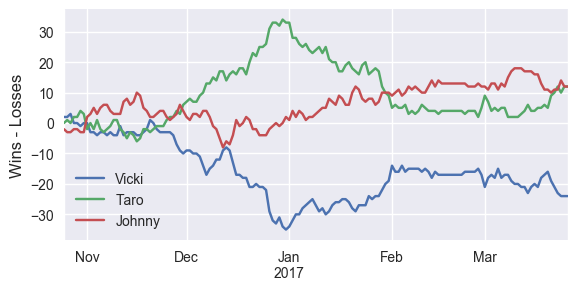
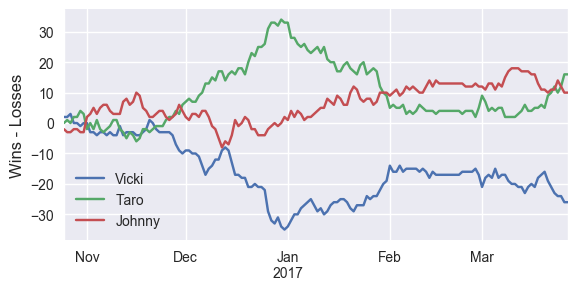
update 3/27

diff --git a/index.html b/index.html
@@ -35,32 +35,32 @@
 <a id="the-bet-is-on" class="anchor" href="#the-bet-is-on" aria-hidden="true"><span aria-hidden="true" class="octicon octicon-link"></span></a>The bet is on.</h1>
 
 <h1>
-<a id="current-winner-of-2016-17-season" class="anchor" href="#current-winner-of-2016-17-season" aria-hidden="true"><span aria-hidden="true" class="octicon octicon-link"></span></a>Current winner of 2016-17 Season (as of 3/26/2017):</h1>
+<a id="current-winner-of-2016-17-season" class="anchor" href="#current-winner-of-2016-17-season" aria-hidden="true"><span aria-hidden="true" class="octicon octicon-link"></span></a>Current winner of 2016-17 Season (as of 3/27/2017):</h1>
 
 <h2>
-<a id="none" class="anchor" href="#none" aria-hidden="true"><span aria-hidden="true" class="octicon octicon-link"></span></a><strong>Johnny</strong>
+<a id="none" class="anchor" href="#none" aria-hidden="true"><span aria-hidden="true" class="octicon octicon-link"></span></a><strong>Taro</strong>
 </h2>
 
 <h2>
 <a id="johnny" class="anchor" href="Johnny.html" aria-hidden="true"><span aria-hidden="true" class="octicon octicon-link"></span>Johnny</a></h2>
 
-<p>Wins: 368<br>
-Losses: 356<br>
-Remaining wins available: 83</p>
+<p>Wins: 370<br>
+Losses: 360<br>
+Remaining wins available: 77</p>
 
 <h2>
 <a id="taro" class="anchor" href="Taro.html" aria-hidden="true"><span aria-hidden="true" class="octicon octicon-link"></span>Taro</a></h2>
 
-<p>Wins: 367<br>
-Losses: 355<br>
-Remaining wins available: 89</p>
+<p>Wins: 372<br>
+Losses: 356<br>
+Remaining wins available: 84</p>
 
 <h2>
 <a id="vicki" class="anchor" href="Vicki.html" aria-hidden="true"><span aria-hidden="true" class="octicon octicon-link"></span>Vicki</a></h2>
 
-<p>Wins: 350<br>
-Losses: 374<br>
-Remaining wins available: 81</p>
+<p>Wins: 353<br>
+Losses: 379<br>
+Remaining wins available: 74</p>
 
 <img src='pythoncode/win_percent.png' alt='Winning Percentage Over Time'>
 <h1>

diff --git a/Vicki.html b/Vicki.html
@@ -35,9 +35,9 @@
 
 <h2>Vicki</h2>
 
-<p>Wins: 350<br>
-Losses: 374<br>
-Remaining wins available: 81</p>
+<p>Wins: 353<br>
+Losses: 379<br>
+Remaining wins available: 74</p>
 
 <h2> Current teams </h2>
 <table border="1">
@@ -50,8 +50,8 @@ Remaining wins available: 81</p>
 <tr>
 <td>Heat</td>
 <td>35</td>
-<td>37</td>
-<td>10</td>
+<td>38</td>
+<td>9</td>
 </tr>
 <tr>
 <td>Mavericks</td>
@@ -61,9 +61,9 @@ Remaining wins available: 81</p>
 </tr>
 <tr>
 <td>Trail Blazers</td>
-<td>34</td>
+<td>35</td>
 <td>38</td>
-<td>10</td>
+<td>9</td>
 </tr>
 <tr>
 <td>Cavaliers</td>
@@ -73,39 +73,39 @@ Remaining wins available: 81</p>
 </tr>
 <tr>
 <td>Bulls</td>
-<td>34</td>
+<td>35</td>
 <td>39</td>
-<td>9</td>
+<td>8</td>
 </tr>
 <tr>
 <td>76ers</td>
 <td>27</td>
-<td>45</td>
-<td>10</td>
+<td>46</td>
+<td>9</td>
 </tr>
 <tr>
 <td>Grizzlies</td>
 <td>40</td>
-<td>32</td>
-<td>10</td>
+<td>33</td>
+<td>9</td>
 </tr>
 <tr>
 <td>Clippers</td>
 <td>44</td>
-<td>30</td>
-<td>8</td>
+<td>31</td>
+<td>7</td>
 </tr>
 <tr>
 <td>Suns</td>
 <td>22</td>
-<td>51</td>
-<td>9</td>
+<td>52</td>
+<td>8</td>
 </tr>
 <tr>
 <td>Pacers</td>
+<td>37</td>
 <td>36</td>
-<td>36</td>
-<td>10</td>
+<td>9</td>
 </tr>
 </table>
 

diff --git a/Johnny.html b/Johnny.html
@@ -35,9 +35,9 @@
 
 <h2>Johnny</h2>
 
-<p>Wins: 368<br>
-Losses: 356<br>
-Remaining wins available: 83</p>
+<p>Wins: 370<br>
+Losses: 360<br>
+Remaining wins available: 77</p>
 
 <h2> Current teams </h2>
 <table border="1">
@@ -50,14 +50,14 @@ Remaining wins available: 83</p>
 <tr>
 <td>Bucks</td>
 <td>37</td>
-<td>35</td>
-<td>10</td>
+<td>36</td>
+<td>9</td>
 </tr>
 <tr>
 <td>Warriors</td>
-<td>58</td>
+<td>59</td>
 <td>14</td>
-<td>10</td>
+<td>9</td>
 </tr>
 <tr>
 <td>Timberwolves</td>
@@ -68,14 +68,14 @@ Remaining wins available: 83</p>
 <tr>
 <td>Hawks</td>
 <td>37</td>
-<td>35</td>
-<td>10</td>
+<td>36</td>
+<td>9</td>
 </tr>
 <tr>
 <td>Celtics</td>
-<td>47</td>
+<td>48</td>
 <td>26</td>
-<td>9</td>
+<td>8</td>
 </tr>
 <tr>
 <td>Pistons</td>
@@ -86,8 +86,8 @@ Remaining wins available: 83</p>
 <tr>
 <td>Nuggets</td>
 <td>35</td>
-<td>37</td>
-<td>10</td>
+<td>38</td>
+<td>9</td>
 </tr>
 <tr>
 <td>Jazz</td>
@@ -98,8 +98,8 @@ Remaining wins available: 83</p>
 <tr>
 <td>Lakers</td>
 <td>21</td>
-<td>51</td>
-<td>10</td>
+<td>52</td>
+<td>9</td>
 </tr>
 <tr>
 <td>Magic</td>

diff --git a/Taro.html b/Taro.html
@@ -35,9 +35,9 @@
 
 <h2>Taro</h2>
 
-<p>Wins: 367<br>
-Losses: 355<br>
-Remaining wins available: 89</p>
+<p>Wins: 372<br>
+Losses: 356<br>
+Remaining wins available: 84</p>
 
 <h2> Current teams </h2>
 <table border="1">
@@ -55,15 +55,15 @@ Remaining wins available: 89</p>
 </tr>
 <tr>
 <td>Nets</td>
-<td>15</td>
+<td>16</td>
 <td>57</td>
-<td>10</td>
+<td>9</td>
 </tr>
 <tr>
 <td>Thunder</td>
 <td>41</td>
-<td>30</td>
-<td>11</td>
+<td>31</td>
+<td>10</td>
 </tr>
 <tr>
 <td>Raptors</td>
@@ -79,15 +79,15 @@ Remaining wins available: 89</p>
 </tr>
 <tr>
 <td>Hornets</td>
-<td>32</td>
+<td>33</td>
 <td>40</td>
-<td>10</td>
+<td>9</td>
 </tr>
 <tr>
 <td>Rockets</td>
-<td>50</td>
+<td>51</td>
 <td>22</td>
-<td>10</td>
+<td>9</td>
 </tr>
 <tr>
 <td>Wizards</td>
@@ -97,15 +97,15 @@ Remaining wins available: 89</p>
 </tr>
 <tr>
 <td>Kings</td>
-<td>27</td>
+<td>28</td>
 <td>45</td>
-<td>10</td>
+<td>9</td>
 </tr>
 <tr>
 <td>Pelicans</td>
-<td>30</td>
+<td>31</td>
 <td>42</td>
-<td>10</td>
+<td>9</td>
 </tr>
 </table>
 
